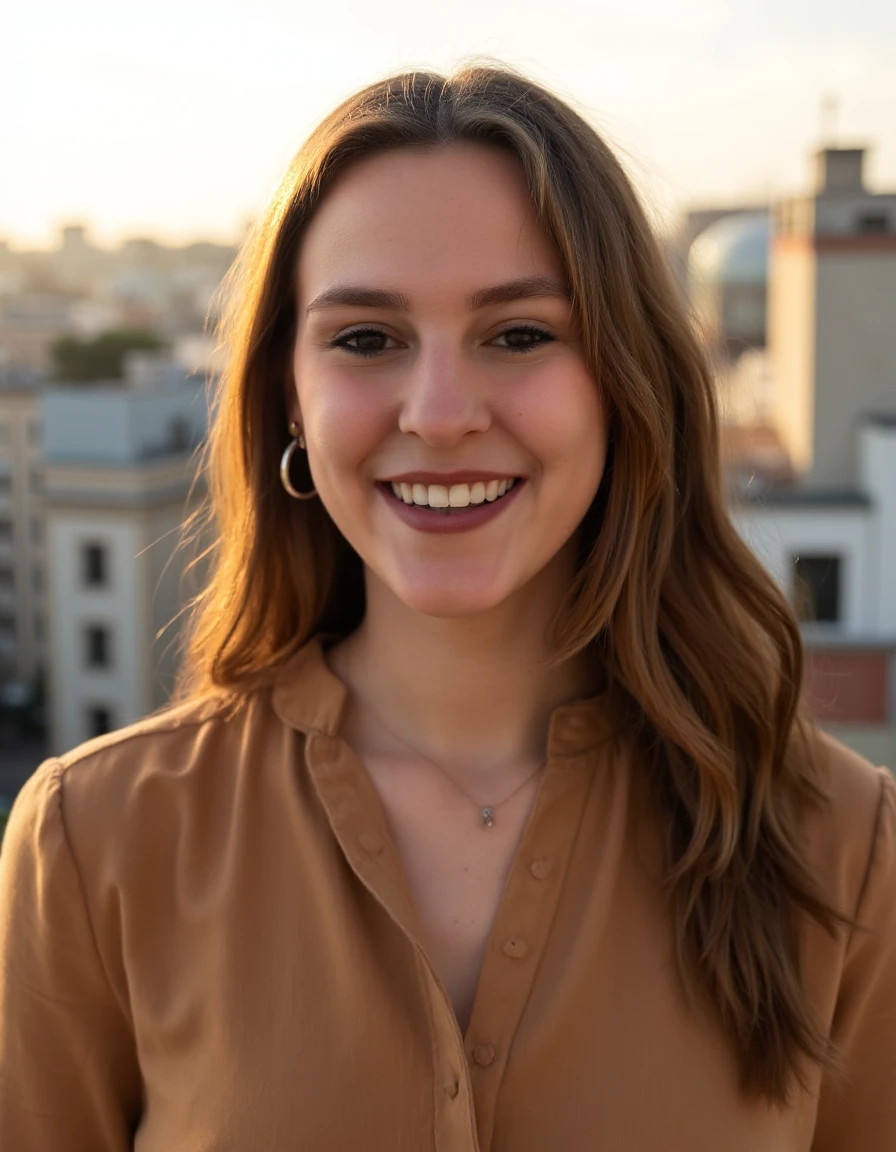
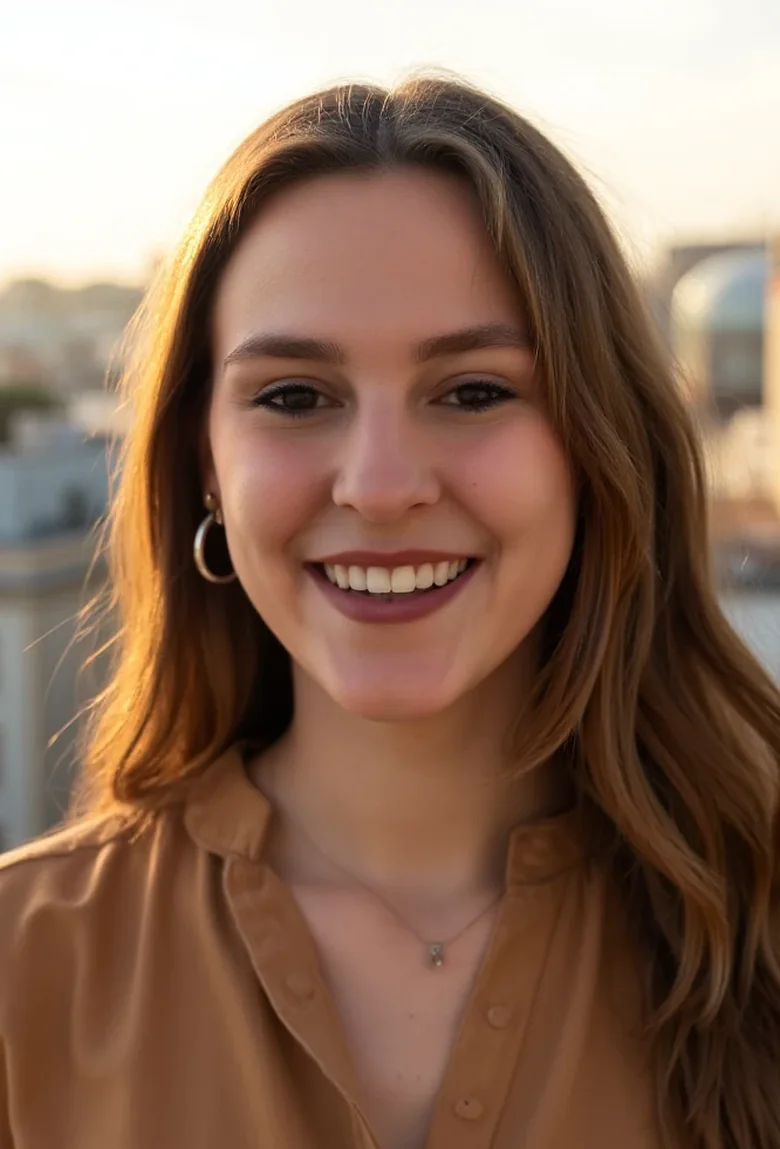
slider: hoofden uitgelijnd voor Renata & Britt (voor/na bijgesneden op zelfde ooghoogte 1/3) + align-vlag zet extra zoom uit; Stijn & founder ongemoeid

diff --git a/components/beforeafterslider.tsx b/components/beforeafterslider.tsx
@@ -17,6 +17,7 @@ export default function BeforeAfterSlider({
   afterLabel = 'After',
   onCycleEnd,
   cyclesPerExample = 1,
+  align = false,
 }: {
   beforeImage: string
   afterImage: string
@@ -24,6 +25,7 @@ export default function BeforeAfterSlider({
   afterLabel?: string
   onCycleEnd?: () => void
   cyclesPerExample?: number
+  align?: boolean
 }) {
   const [sliderPosition, setSliderPosition] = useState(5)
   const [isDragging, setIsDragging] = useState(false)
@@ -119,7 +121,13 @@ export default function BeforeAfterSlider({
       >
         {/* After Image (achtergrond) */}
         <div className="absolute inset-0">
-          <img src={afterImage} alt="After" className="w-full h-full object-cover" style={{ transform: 'scale(1.1) translateY(15px)' }} draggable={false} />
+          <img
+            src={afterImage}
+            alt="After"
+            className="w-full h-full object-cover"
+            style={align ? { objectPosition: '50% 50%' } : { transform: 'scale(1.1) translateY(15px)' }}
+            draggable={false}
+          />
           <div className="absolute top-3 right-3 bg-[#0D9488] text-white px-2.5 py-1 rounded-full text-xs font-semibold shadow-lg">
             {afterLabel}
           </div>
@@ -135,7 +143,7 @@ export default function BeforeAfterSlider({
             src={beforeImage}
             alt="Before"
             className="w-full h-full object-cover"
-            style={{ objectPosition: '50% 18%' }}
+            style={{ objectPosition: align ? '50% 50%' : '50% 18%' }}
             draggable={false}
           />
           <div className="absolute top-3 left-3 bg-[#6B6B6B] text-white px-2.5 py-1 rounded-full text-xs font-semibold shadow-lg">

diff --git a/components/HeroCarousel.tsx b/components/HeroCarousel.tsx
@@ -3,7 +3,8 @@
 import { useState, useCallback } from 'react'
 import BeforeAfterSlider from './beforeafterslider'
 
-export interface HeroExample { name: string; before: string; after: string }
+// align: true = voor/na zijn al bijgesneden op dezelfde ooghoogte -> toon zonder extra zoom/verschuiving
+export interface HeroExample { name: string; before: string; after: string; align?: boolean }
 
 // Carrousel van voor/na-voorbeelden (BetterPic-stijl): slider + klikbare thumbnails eronder.
 // Schuift automatisch door naar het volgende voorbeeld na één volledige slide-cyclus (~8s).
@@ -37,6 +38,7 @@ export default function HeroCarousel({
         afterLabel={afterLabel}
         onCycleEnd={paused ? undefined : advance}
         cyclesPerExample={2}
+        align={cur.align}
       />
 
       {examples.length > 1 && (

diff --git a/app/page.tsx b/app/page.tsx
@@ -55,9 +55,9 @@ export default function HomePage() {
 
   // Hero-carrousel: meerdere voor/na-voorbeelden met thumbnails (BetterPic-stijl)
   const heroExamples: HeroExample[] = [
-    { name: 'Renata', before: '/images/renata-before.jpg', after: '/images/renata-after.jpg' },
+    { name: 'Renata', before: '/images/renata-before.jpg', after: '/images/renata-after.jpg', align: true },
     { name: 'Stijn', before: '/images/stijn-before.jpg', after: '/images/stijn-after.jpg' },
-    { name: 'Britt', before: '/images/britt-before.jpg', after: '/images/britt-after.webp' },
+    { name: 'Britt', before: '/images/britt-before.jpg', after: '/images/britt-after.webp', align: true },
     { name: 'featured', before: '/images/before.jpeg', after: '/images/headshot-42.webp' },
   ]
 
